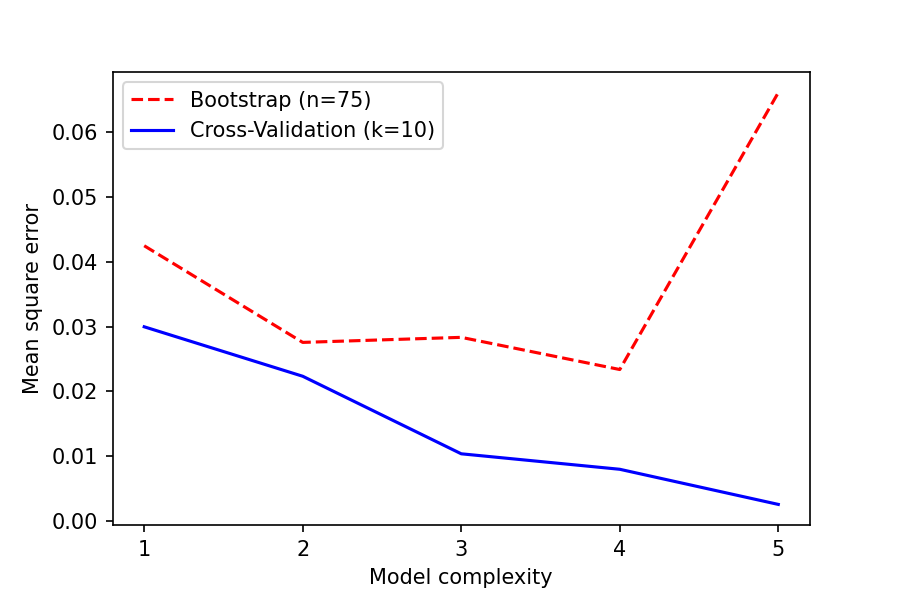
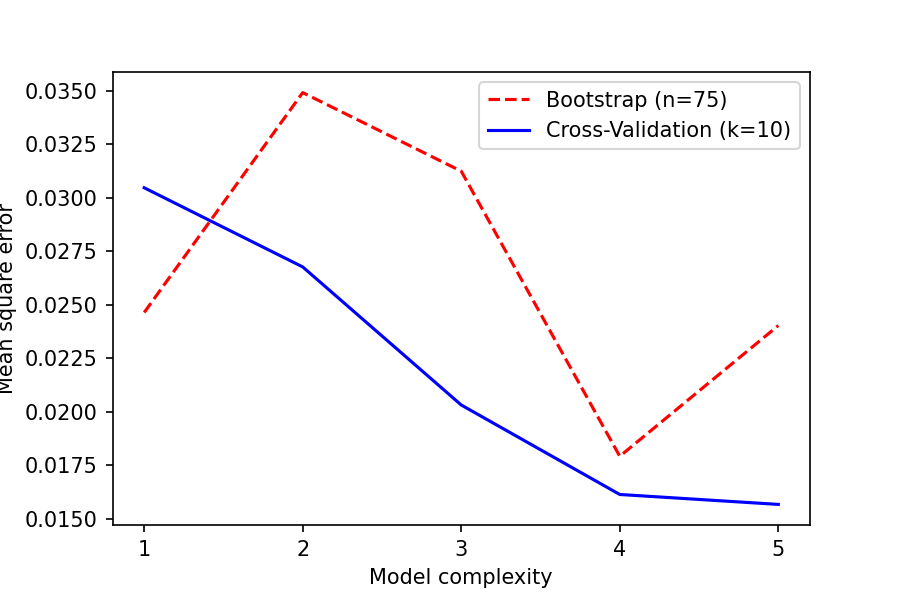
Updated

diff --git a/Project1/02_OLS_owncode.py b/Project1/02_OLS_owncode.py
@@ -8,7 +8,14 @@ import matplotlib.pyplot as plt
 import numpy as np
 from sklearn.model_selection import train_test_split
 #from sklearn.preprocessing import StandardScaler
-from Functions import FrankeFunction, R2, MSE, DesignMatrix, LinReg
+from Functions import FrankeFunction, R2, MSE, DesignMatrix, LinReg#, Beta_std
+
+# def Beta_std(var,X_train,Beta,p):
+#     Beta_var = var*np.linalg.pinv(X_train.T @ X_train)
+#     err = []
+#     for p_ in range(p):
+#         err = np.append(err,Beta_var[p_,p_] ** 0.5)
+#     return err
 
 #%%
 #OLS on the Franke function
@@ -21,7 +28,8 @@ x = np.random.uniform(0,1,n)
 y = np.random.uniform(0,1,n)
 z = FrankeFunction(x, y)
 # Add random distributed noise
-z = z + np.random.normal(0,0.1,z.shape)
+var = 0.1
+z = z + np.random.normal(0,var,z.shape)
 
 
 x = np.array(x).reshape(n,1)
@@ -68,16 +76,20 @@ TestR2 = np.zeros(maxdegree)
 TrainR2 = np.zeros(maxdegree)
 polydegree = np.zeros(maxdegree)
 predictor = []
+predictor_std = []
 
 
 for degree in range(maxdegree):
     X_train = DesignMatrix(x_train[:,0],x_train[:,1],degree+1)
     X_test = DesignMatrix(x_test[:,0],x_test[:,1],degree+1)
     z_fit, z_pred, betas = LinReg(X_train, X_test, z_train)
-    
     predictor=np.append(predictor,betas)
-    polydegree[degree] = degree+1
-    
+
+    #Accumulate standard deviation values for each Beta
+    Beta_err = Beta_std(var, X_train, betas, betas.shape[0])
+    predictor_std = np.append(predictor_std,Beta_err)
+
+    polydegree[degree] = degree+1    
     TestError[degree] = MSE(z_test, z_pred)
     TrainError[degree] = MSE(z_train, z_fit)
     TestR2[degree] = R2(z_test,z_pred)
@@ -95,7 +107,9 @@ for degree in range(maxdegree):
     print("MSE =",MSE(z_test,z_pred))
     print("R2  =",R2(z_test,z_pred))
 
-#Plots    
+#Plots 
+
+#MSE   
 plt.plot(polydegree, TestError, label='Test sample')
 plt.plot(polydegree, TrainError, label='Train sample')
 plt.xlabel('Model complexity (degree)')
@@ -105,6 +119,7 @@ plt.legend()
 plt.savefig("plots/OLS/MSE_vs_complexity.png", dpi=150)
 plt.show()
 
+#R2 score
 plt.plot(polydegree, TestR2, label='Test sample')
 plt.plot(polydegree, TrainR2, label='Train sample')
 plt.xlabel('Model complexity')
@@ -116,7 +131,7 @@ plt.show()
 
 #%%
 #Plot also the parameters 𝛽 as you increase the order of the polynomial.
-#Beta coefficients
+#Beta coefficients (up to 21)
 print(predictor.shape)
 
 #plt.plot(predictor[0:55])
@@ -143,4 +158,24 @@ plt.legend(loc='lower right',prop={'size': 8})
 plt.savefig("plots/OLS/OLS_Beta_Optimal_degree5.png",dpi=150)
 plt.show()
 
+#Beta coefficients with error bars for degree 1, 3 and 5 
+plt.errorbar(np.array(range(0,21)),predictor[34:55], yerr=predictor_std[34:55],uplims=True, lolims=True, fmt='o', markersize=4, capsize=1,label='degree=5')
+plt.errorbar(np.array(range(0,10)),predictor[9:19], yerr=predictor_std[9:19],uplims=True, lolims=True, fmt='o', markersize=4, capsize=1,label='degree=3')
+plt.errorbar(np.array(range(0,3)),predictor[0:3], yerr=predictor_std[0:3],uplims=True, lolims=True,fmt='o', markersize=4, capsize=1, label='degree=1')
 
+locs, labels = plt.xticks()  # Get the current locations and labels.
+plt.xticks(np.arange(0, 1, step=1))  # Set label locations.
+plt.xticks(np.arange(21), [r'$\beta_0$', r'$\beta_1$', r'$\beta_2$', \
+           r'$\beta_3$', r'$\beta_4$', r'$\beta_5$', \
+           r'$\beta_6$', r'$\beta_7$', r'$\beta_8$', \
+           r'$\beta_9$', r'$\beta_{10}$', r'$\beta_{11}$', \
+           r'$\beta_{12}$', r'$\beta_{13}$', r'$\beta_{14}$', \
+           r'$\beta_{15}$', r'$\beta_{16}$', r'$\beta_{17}$', \
+           r'$\beta_{18}$', r'$\beta_{19}$', r'$\beta_{20}$',r'$\beta_{21}$'\
+           ], rotation=45)  # Set text labels.
+
+
+plt.ylabel("Optimal Beta - predictor value")
+plt.legend()
+plt.show()
+plt.savefig("Results/OLS/OLS_Beta_Optimal_degree5_std.png",dpi=150)

diff --git a/Project1/Functions.py b/Project1/Functions.py
@@ -36,20 +36,20 @@ def ScaleData(x_train, x_test, y_train, y_test):
 
 def DesignMatrix(x, y, n ):
     '''This function returns the design matrix of a bi-variate polynomial function'''
-	if len(x.shape) > 1:
-		x = np.ravel(x)
-		y = np.ravel(y)
+    if len(x.shape) > 1:
+        x = np.ravel(x)
+        y = np.ravel(y)
 
-	N = len(x)
-	l = int((n+1)*(n+2)/2)		# Number of elements in beta
-	X = np.ones((N,l))
+    N = len(x)
+    l = int((n+1)*(n+2)/2)		# Number of elements in beta
+    X = np.ones((N,l))
 
-	for i in range(1,n+1):
-		q = int((i)*(i+1)/2)
-		for k in range(i+1):
-			X[:,q+k] = (x**(i-k))*(y**k)
+    for i in range(1,n+1):
+        q = int((i)*(i+1)/2)
+        for k in range(i+1):
+            X[:,q+k] = (x**(i-k))*(y**k)
 
-	return X
+    return X
         
 def LinReg(X_train, X_test, y_train):
     OLSbeta = np.linalg.pinv(X_train.T @ X_train) @ X_train.T @ y_train

diff --git a/Project1/04_OLS_cv.py b/Project1/04_OLS_cv.py
@@ -1,8 +1,9 @@
 # -*- coding: utf-8 -*-
 """
-Created on Fri Sep 30 12:15:00 2022
-
-@author: luis.barreiro
+This program performs Ordinary least square regression on a synthetic dataset generated by the Franke Function
+with cross-validation resampling
+The program returns plot Error against polynomial degree (up to 10)
+Author: R Corseri & L Barreiro
 """
 import numpy as np
 import matplotlib.pyplot as plt
@@ -21,14 +22,14 @@ maxdegree= 5
 k = 10
 kfold = KFold(n_splits = k)
 
-# Make data set.
+# Make data set with n observations
 n = 100
 x = np.random.uniform(0,1,n)
 y = np.random.uniform(0,1,n)
 z = FrankeFunction(x,y)
 
 #Add normally distributed noise
-#y = y + np.random.normal(0,0.1,y.shape)
+z = z + np.random.normal(0,0.1,z.shape)
 
 x = np.array(x).reshape(n,1)
 y = np.array(y).reshape(n,1)

diff --git a/Project1/03_OLS_bootstrap.py b/Project1/03_OLS_bootstrap.py
@@ -68,6 +68,7 @@ plt.plot(polydegree, bias, label='bias')
 plt.plot(polydegree, variance, label='Variance')
 plt.xticks(np.arange(1, 6, step=1))  # Set label locations.
 plt.xlabel('Model complexity')
+plt.ylabel('Mean squared error')
 plt.legend()
 plt.savefig("plots/OLS/OLS_bias_var_tradeoff.png",dpi=150)
 plt.show()
